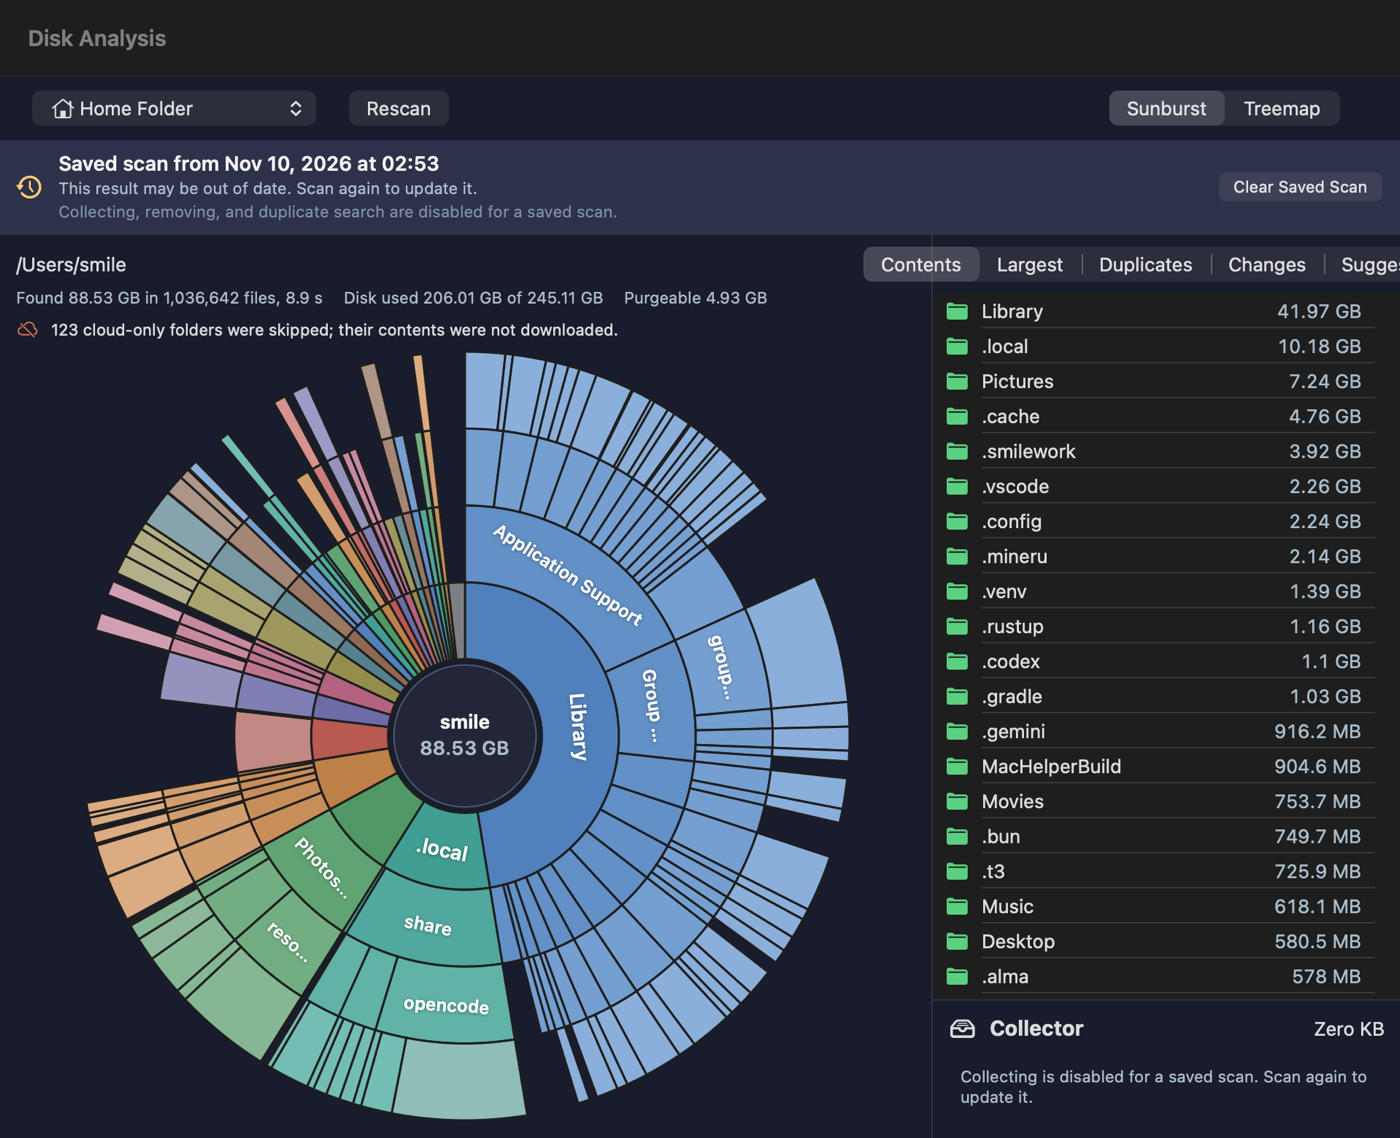
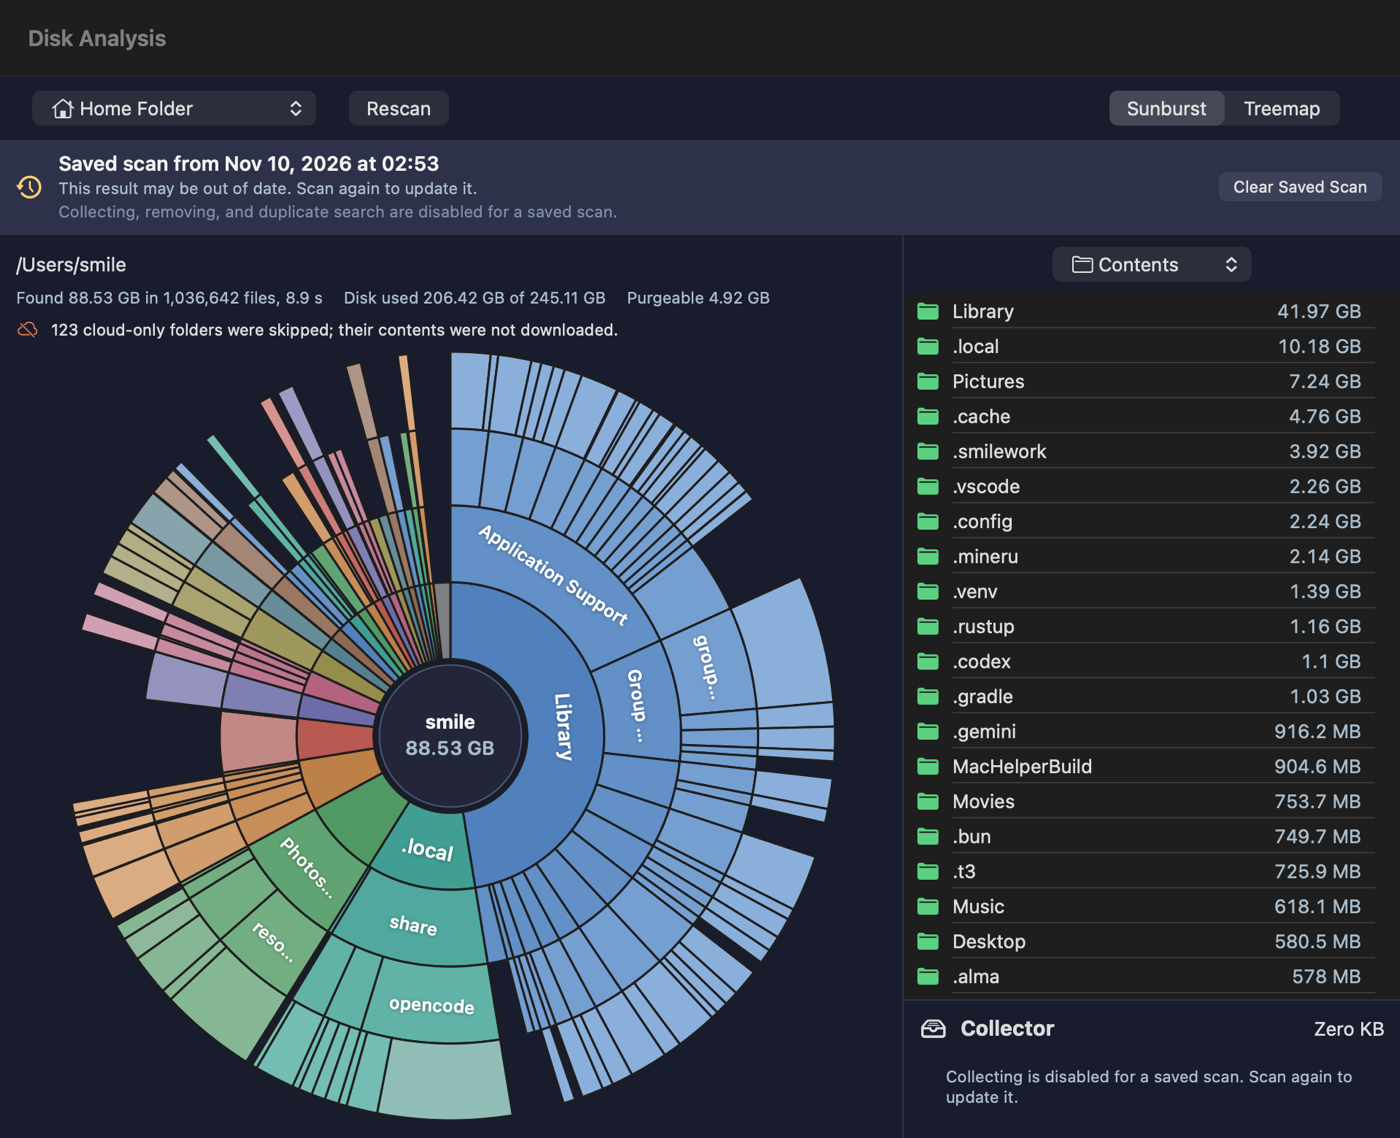
fix(disk): keep the side panel tabs readable in every language
The five segmented tabs overflowed the 320 pt column in English and longer languages. Widen
the column to 340 pt and fall back to a smaller control, then to a menu with the full names.

Changed region(s): [[0.0307, 0.3076, 0.6143, 0.9842], [0.6143, 0.2153, 1.0, 0.9842], [0.3379, 0.246, 0.5529, 0.2768]]

diff --git a/App/Disk/DiskAnalysisView.swift b/App/Disk/DiskAnalysisView.swift
@@ -13,6 +13,26 @@ struct DiskAnalysisView: View {
     enum SideTab: String, CaseIterable, Identifiable {
         case contents, largest, duplicates, changes, insights
         var id: String { rawValue }
+
+        var title: LocalizedStringKey {
+            switch self {
+            case .contents: "Contents"
+            case .largest: "Largest"
+            case .duplicates: "Duplicates"
+            case .changes: "Changes"
+            case .insights: "Suggestions"
+            }
+        }
+
+        var symbol: String {
+            switch self {
+            case .contents: "folder"
+            case .largest: "arrow.up.arrow.down"
+            case .duplicates: "square.on.square"
+            case .changes: "clock.arrow.circlepath"
+            case .insights: "lightbulb"
+            }
+        }
     }
 
     var body: some View {
@@ -132,14 +152,21 @@ struct DiskAnalysisView: View {
             Divider()
 
             VStack(spacing: 0) {
-                Picker("", selection: $sideTab) {
-                    Text("Contents").tag(SideTab.contents)
-                    Text("Largest").tag(SideTab.largest)
-                    Text("Duplicates").tag(SideTab.duplicates)
-                    Text("Changes").tag(SideTab.changes)
-                    Text("Suggestions").tag(SideTab.insights)
+                // Five tab names don't fit the column in every language: fall back to a smaller
+                // control, then to a menu that still shows the full names.
+                ViewThatFits(in: .horizontal) {
+                    sideTabPicker
+                    sideTabPicker.controlSize(.small)
+                    Picker("", selection: $sideTab) {
+                        ForEach(SideTab.allCases, id: \.self) { tab in
+                            Label { Text(tab.title) } icon: { Image(systemName: tab.symbol) }.tag(tab)
+                        }
+                    }
+                    .pickerStyle(.menu)
+                    .labelsHidden()
+                    .frame(maxWidth: .infinity)
                 }
-                .pickerStyle(.segmented).labelsHidden().padding(8)
+                .padding(8)
                 switch sideTab {
                 case .contents:
                     List { ForEach(Array(focus.children.prefix(60))) { node in row(node, total: focus.size) } }
@@ -158,8 +185,17 @@ struct DiskAnalysisView: View {
                 Divider()
                 collector
             }
-            .frame(width: 320)
+            .frame(width: 340)
         }
+    }
+
+    private var sideTabPicker: some View {
+        Picker("", selection: $sideTab) {
+            ForEach(SideTab.allCases, id: \.self) { tab in Text(tab.title).tag(tab) }
+        }
+        .pickerStyle(.segmented)
+        .labelsHidden()
+        .fixedSize()
     }
 
     private var largestFilters: some View {
